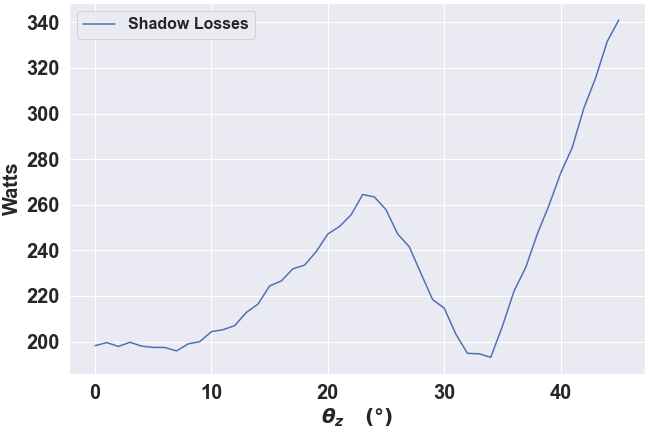
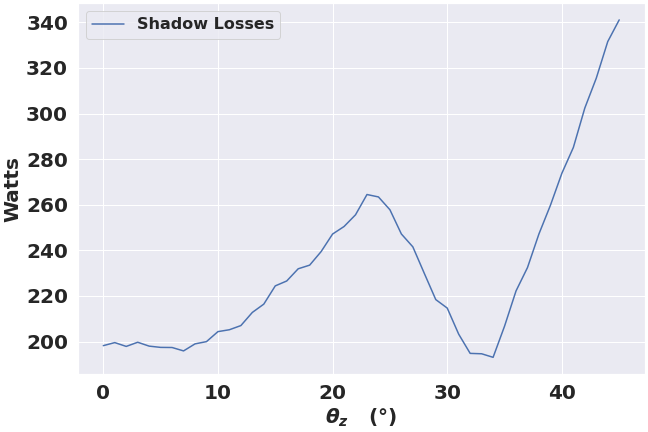
Refactored plotting functions, moved calc_intercept_factor() in reader

diff --git a/analysis.py b/analysis.py
@@ -19,30 +19,30 @@ params = {'figure.figsize': (14, 4),
           'font.weight' : 'bold',
           'font.size': 20,
           'legend.fontsize': 16,
+          'savefig.format': 'png',
           # 'savefig.dpi': 300.0,
-          # 'savefig.format': 'tiff',
           'figure.constrained_layout.use': True}
 plt.rcParams.update(params)
 
-def plot_quantity_dfs(df_list, quantity="efficiency"):
+def plot_geometries_quantity(df_list, quantity="efficiency"):
     """ Plots a column of each dataframe """
     fig, ax = plt.subplots(figsize=(9,6))
     for df in df_list:
-        ax.plot(df[quantity], label=df.label)
+        ax.plot(df[quantity], label=df.trace_geometry)
         ax.set_xlabel("$\\theta_z \quad  (\degree)$")
-        ax.set_ylabel(quantity.replace("_"," ").capitalize())
+        ax.set_ylabel(quantity.title().replace("_"," "))
         ylabel = quantity.replace("_"," ").capitalize()
         if contains_flux_or_losses([quantity]):
             ylabel = ylabel + " (W)"
         ax.set_ylabel(ylabel)
     ax.legend()
-    fig.savefig(f"comparison-plots/{df.title}-{quantity}.png")
+    fig.savefig(f"comparison-plots/{df.trace_direction}-{quantity}")
     plt.show()
 
 
 def plot_heatmap(trace, values='efficiency'):
     df = reader.read_mean(trace)
-    pic_path = os.path.join(trace.exp_dir, "heatmaps", trace.name + ".png")
+    pic_path = os.path.join(trace.exp_dir, "heatmaps", trace.name)
     utils.mkdir_if_not_exists(os.path.dirname(pic_path))
     df1 = df.pivot(index='abs_y', columns='abs_x', values=values)
     fig, ax = plt.subplots(figsize=(10,7))  
@@ -59,12 +59,30 @@ def contains_flux_or_losses(main_str_list, substr_list=["flux", "losses"]):
                 return True
     return False
 
+def plot_geometry_quantities(df, quantities_list):
+    """ Plots list of df columns in same plot """
+    pic_path = os.path.join(os.getcwd(), "export", df.trace_geometry, "plots", 
+                        df.trace_direction,'-'.join(quantities_list))
+    utils.mkdir_if_not_exists(os.path.dirname(pic_path))
+    fig, ax = plt.subplots(figsize=(9,6))
+    for col in quantities_list:        
+        ax.plot(df[col], label=col.title().replace("_"," "))
+    ax.set_xlabel("$\\theta_z \quad  (\degree)$")
+    if contains_flux_or_losses(quantities_list):
+        ax.set_ylabel("Watts")
+    ax.legend()
+    plt.savefig(pic_path)
+    plt.show()
+    
+def plot_all_quantities(df):
+    for i in df.columns:
+        plot_geometry_quantities(df, [i])
 
 ideal_tr_df_list = [reader.read(tr) for tr in ideal_transversal_traces]
 ideal_ln_df_list = [reader.read(ln) for ln in ideal_longitudinal_traces]
 
-plot_quantity_dfs(ideal_tr_df_list[-2:])
-plot_quantity_dfs(ideal_ln_df_list[-2:])
+plot_geometries_quantity(ideal_tr_df_list[-2:])
+plot_geometries_quantity(ideal_ln_df_list[-2:])
 
 # for tr in ideal_transversal_traces:
 #     plot_heatmap(tr)
@@ -72,34 +90,7 @@ plot_quantity_dfs(ideal_ln_df_list[-2:])
 # for ln in ideal_longitudinal_traces:
 #     plot_heatmap(ln)
 
-df = ideal_tr_df_list[-1]
 
-# TODO check calculation with partners
-df["intercept_factor"] = df["absorbed_flux"]/ (df["potential_flux"] * df["cos_factor"])
-# Used to confirm absorbed calculation
-# df["calculated_absorbed"] = df["potential_flux"]*df["cos_factor"] - \
-#                                 df["shadow_losses"] - \
-#                                 df["missing_losses"] -\
-#                                 df["reflectivity_losses"] - \
-#                                 df["absorptivity_losses"]
-
-def plot_columns_list(df, columns_list):
-    """ Plots list of columns in same plot """
-    pic_path = os.path.join(os.getcwd(), "export", "ideal-frame-mirrorbox-support", "plots", 
-                            df.title,'-'.join(columns_list)+".png")
-    utils.mkdir_if_not_exists(os.path.dirname(pic_path))
-    fig, ax = plt.subplots(figsize=(9,6))
-    for col in columns_list:        
-        ax.plot(df[col], label=col.title().replace("_"," "))
-    ax.set_xlabel("$\\theta_z \quad  (\degree)$")
-    if contains_flux_or_losses(columns_list):
-        ax.set_ylabel("Watts")
-    ax.legend()
-    plt.savefig(pic_path)
-    plt.show()
-    
 # plot_columns_list(df, ["intercept_factor", "efficiency"])
 
-
-# for i in df.columns:
-#     plot_columns_list(df, [i])
+# plot_all_quantities(ideal_tr_df_list[-2])

diff --git a/reader.py b/reader.py
@@ -15,10 +15,13 @@ columns = {"potential_flux": 2,
 
 
 def get_trace_attrs(df, trace):
-    df.label = trace.title.split(" ")[1]
-    df.title = trace.title.split(" ")[0]
-    df.xlabel = trace.xlabel
+    df.trace_geometry = trace.title.split(" ")[1]
+    df.trace_direction = trace.title.split(" ")[0]
     return df
+
+# TODO check calculation with partners
+def calc_intercept_factor(df):
+    df["intercept_factor"] = df["absorbed_flux"]/ (df["potential_flux"] * df["cos_factor"])
 
 
 def read(trace):
@@ -34,6 +37,7 @@ def read(trace):
     trace_df = trace_df.set_index("angle")
     if trace.name == "Transversal":
         trace_df.index = trace_df.index-90
+    calc_intercept_factor(trace_df)
     return get_trace_attrs(trace_df, trace)
 
 

diff --git a/traces.py b/traces.py
@@ -90,7 +90,6 @@ class Transversal(Trace):
         super().__init__(min_angle, max_angle, step, rays, geometry, name=self.__class__.__name__)
         self.angle_pairs = [f"{a:.1f},0" for a in self.angles]
         self.sun_col = 3  # sun direction column in txt output file
-        self.xlabel = "$\\theta_z$ $(\degree)$, 0$\degree$=Normal Incidence"
 
 
 class Longitudinal(Trace):
@@ -98,4 +97,3 @@ class Longitudinal(Trace):
         super().__init__(min_angle, max_angle, step, rays, geometry, name=self.__class__.__name__)
         self.angle_pairs = [f"90,{a:.1f}" for a in self.angles]
         self.sun_col = 4  # sun direction column in txt output file
-        self.xlabel = "$\\theta_z$ $(\degree)$, 0$\degree$=Normal Incidence"
